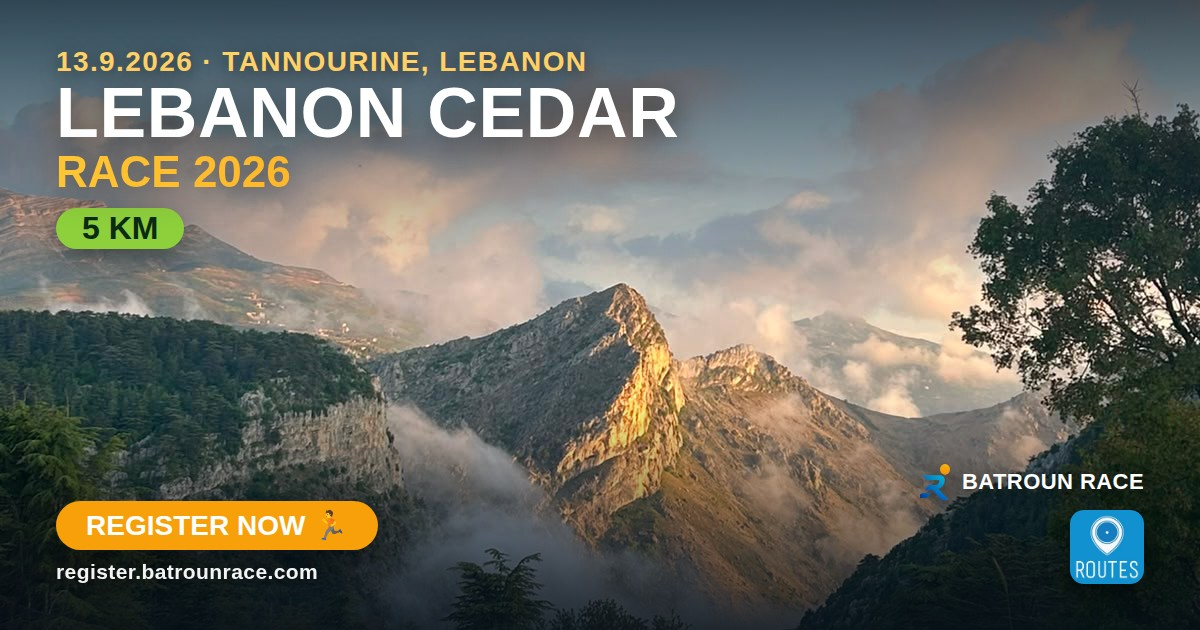
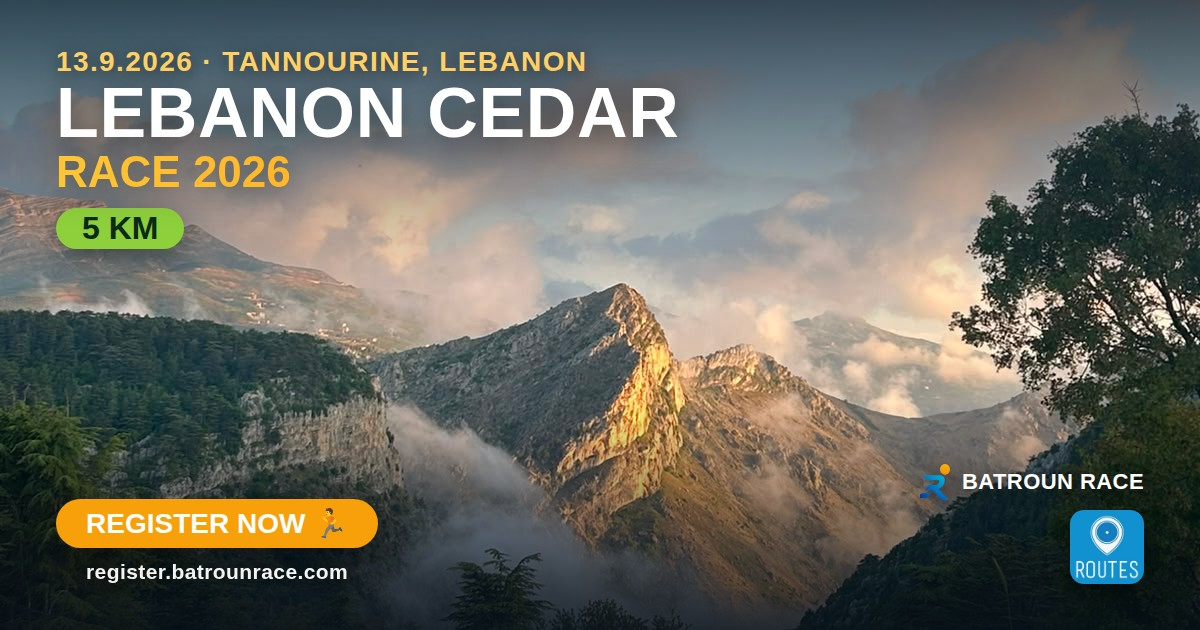
Line the register link up under the button's words
The url sat under the button's left edge, so it read as a stray line
rather than part of the call to action. It now starts exactly where
REGISTER NOW starts, on all three posts.

The generator moves into tools/social-posts.html with its source photo,
so the posts can be re-rendered or re-worded without rebuilding it.

Claude-Session: https://claude.ai/code/session_01WtCbFS8DaNpyJP2tZLxJ99

Changed region(s): [[0.0308, 0.7841, 0.3083, 0.9349]]

diff --git a/tools/social-posts.html b/tools/social-posts.html
@@ -1,0 +1,111 @@
+<!DOCTYPE html>
+<html lang="en">
+<head>
+<meta charset="UTF-8">
+<title>Lebanon Cedar Race 2026 — social post generator</title>
+<!--
+  Renders the downloadable social posts. Open with ?s=square | story | link
+  and screenshot at the matching size:
+    square 1080x1080  · Instagram / Facebook post
+    story  1080x1920  · Instagram / Facebook story, WhatsApp status
+    link   1200x630   · link previews, Facebook cover
+  Outputs live in images/social/.
+-->
+<link rel="preconnect" href="https://fonts.googleapis.com">
+<link rel="preconnect" href="https://fonts.gstatic.com" crossorigin>
+<link href="https://fonts.googleapis.com/css2?family=Baloo+2:wght@600;700;800&display=swap" rel="stylesheet">
+<style>
+*{margin:0;padding:0;box-sizing:border-box}
+body{overflow:hidden;font-family:'Baloo 2',sans-serif;position:relative;background:#000}
+#photo{position:absolute;inset:0;width:100%;height:100%;object-fit:cover}
+.top{position:absolute;inset:0;background:linear-gradient(180deg,rgba(8,16,24,.72) 0%,rgba(8,16,24,.34) 26%,rgba(8,16,24,0) 46%)}
+.bot{position:absolute;inset:0;background:linear-gradient(0deg,rgba(8,16,24,.84) 0%,rgba(8,16,24,.45) 18%,rgba(8,16,24,0) 36%)}
+.txt{position:absolute;z-index:5}
+.date{font-weight:800;color:#FFD166;letter-spacing:.05em;text-shadow:0 3px 18px rgba(0,0,0,.55)}
+.l1{font-weight:800;line-height:1.0;color:#fff;letter-spacing:.01em;text-shadow:0 6px 30px rgba(0,0,0,.6)}
+.l2{font-weight:800;line-height:1.1;background:linear-gradient(92deg,#FFC533,#FB8500);-webkit-background-clip:text;background-clip:text;color:transparent;filter:drop-shadow(0 4px 16px rgba(0,0,0,.55))}
+.dist{display:inline-block;font-weight:800;color:#0B2B15;background:#8ECF3C;border-radius:999px;box-shadow:0 8px 30px rgba(0,0,0,.45)}
+.cta{position:absolute;z-index:5}
+.cta .pill{display:inline-block;font-weight:800;color:#fff;background:#F7A00A;border-radius:999px;
+  box-shadow:0 12px 34px rgba(0,0,0,.45)}
+/* the url lines up with the WORDS in the button, not the button's edge */
+.cta .url{display:block;font-weight:700;color:#fff;letter-spacing:.02em;text-shadow:0 2px 14px rgba(0,0,0,.7);opacity:.95}
+/* organisers, stacked: Batroun Race on top, Routes beneath it */
+.brand{position:absolute;z-index:5;display:flex;flex-direction:column;gap:14px}
+.brand .row{display:flex;align-items:center;gap:12px}
+.brand img.mark{filter:drop-shadow(0 2px 10px rgba(0,0,0,.6))}
+.brand span{color:#fff;font-weight:800;letter-spacing:.02em;text-shadow:0 2px 14px rgba(0,0,0,.7)}
+.brand img.routes{border-radius:14px;box-shadow:0 8px 24px rgba(0,0,0,.45);display:block}
+
+/* ---- Instagram / Facebook square ---- */
+body.square{width:1080px;height:1080px}
+body.square #photo{object-position:center 62%}
+body.square .txt{left:64px;top:70px;right:64px}
+body.square .date{font-size:40px}
+body.square .l1{font-size:96px}
+body.square .l2{font-size:62px}
+body.square .dist{margin-top:18px;font-size:46px;padding:2px 36px}
+body.square .cta{left:64px;bottom:80px}
+body.square .cta .pill{font-size:42px;padding:10px 44px}
+body.square .cta .url{margin-top:16px;padding-left:44px;font-size:29px}
+body.square .brand{right:64px;bottom:78px;align-items:flex-end}
+body.square .brand img.mark{height:48px}
+body.square .brand span{font-size:28px}
+body.square .brand img.routes{width:104px;height:104px}
+
+/* ---- Story / WhatsApp status ---- */
+body.story{width:1080px;height:1920px}
+body.story #photo{object-position:center 58%}
+body.story .txt{left:64px;top:300px;right:64px}
+body.story .date{font-size:40px}
+body.story .l1{font-size:98px}
+body.story .l2{font-size:62px}
+body.story .dist{margin-top:24px;font-size:46px;padding:2px 38px}
+body.story .cta{left:64px;bottom:540px}
+body.story .cta .pill{font-size:44px;padding:12px 48px}
+body.story .cta .url{margin-top:18px;padding-left:48px;font-size:30px}
+body.story .brand{left:64px;bottom:300px;align-items:flex-start}
+body.story .brand img.mark{height:50px}
+body.story .brand span{font-size:29px}
+body.story .brand img.routes{width:112px;height:112px}
+
+/* ---- Link preview / Facebook post ---- */
+body.link{width:1200px;height:630px}
+body.link #photo{object-position:center 66%}
+body.link .txt{left:56px;top:46px;right:56px}
+body.link .date{font-size:28px}
+body.link .l1{font-size:70px}
+body.link .l2{font-size:44px}
+body.link .dist{margin-top:12px;font-size:32px;padding:2px 26px}
+body.link .cta{left:56px;bottom:46px}
+body.link .cta .pill{font-size:28px;padding:8px 30px}
+body.link .cta .url{margin-top:12px;padding-left:30px;font-size:21px}
+body.link .brand{right:56px;bottom:46px;align-items:flex-end;gap:10px}
+body.link .brand img.mark{height:36px}
+body.link .brand span{font-size:22px}
+body.link .brand img.routes{width:74px;height:74px}
+</style>
+</head>
+<body>
+<img id="photo" src="../images/banners/tannourine-source.jpg" alt="">
+<div class="top"></div>
+<div class="bot"></div>
+<div class="txt">
+  <div class="date">13.9.2026 · TANNOURINE, LEBANON</div>
+  <div class="l1">LEBANON CEDAR</div>
+  <div class="l2">RACE 2026</div>
+  <div><span class="dist">5 KM</span></div>
+</div>
+<div class="cta">
+  <span class="pill">REGISTER NOW 🏃</span>
+  <span class="url">register.batrounrace.com</span>
+</div>
+<div class="brand">
+  <div class="row"><img class="mark" src="../images/logo-mark.png" alt=""><span>BATROUN RACE</span></div>
+  <img class="routes" src="../images/routes-logo.jpg" alt="Routes">
+</div>
+<script>
+document.body.className = new URLSearchParams(location.search).get('s') || 'square';
+</script>
+</body>
+</html>
